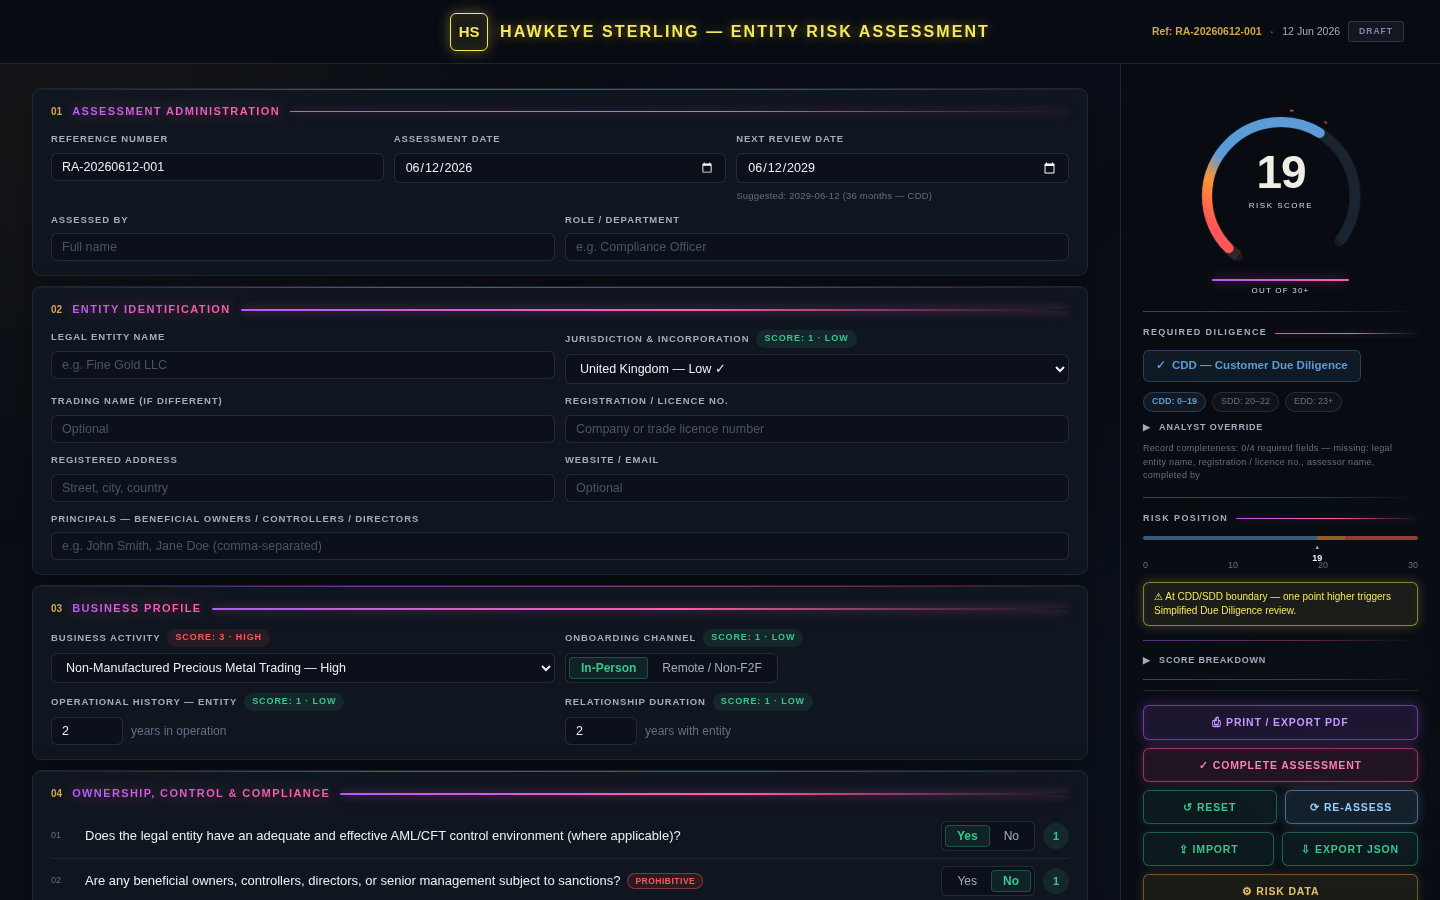
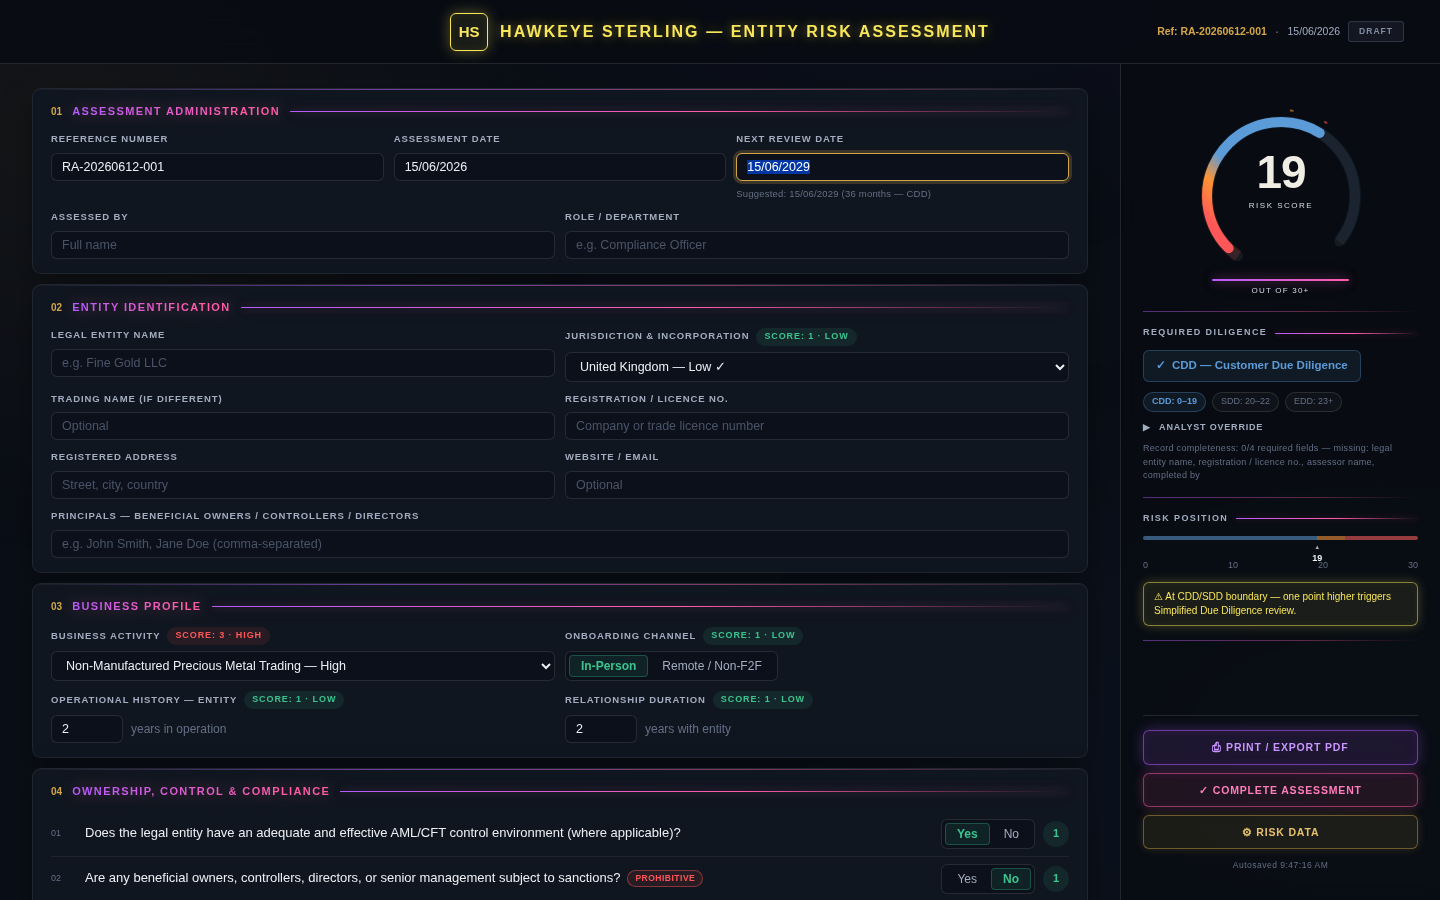
DD/MM/YYYY dates, slimmer sidebar, Risk Data panel counts
Client-requested UI revisions:

- All dates are entered and shown as DD/MM/YYYY: the seven date fields
  are now masked text inputs (dmyToISO/fmtDate convert at the UI
  boundary; state, storage, and exports stay ISO). The native calendar
  picker icons disappear with the switch. Review suggestions, banners,
  panel timestamps, header, and the printed report all display
  DD/MM/YYYY.
- Sidebar: the Score Breakdown block is removed (each factor already
  shows its score inline) along with the Reset, Re-assess, Import, and
  Export JSON buttons; the actions are now Print/Export PDF, Complete
  Assessment, and Risk Data. The underlying functions remain in code and
  under test so any button can be restored on request.
- Risk Data panel: tabs show item counts (Countries · 245, Activities ·
  7, Recycled · 10, Mined · 3) confirming full coverage of the firm's
  data sheet — verified against Risk_Assessment_Templet.xlsx: all 245
  countries present with identical scores. The header baseline label is
  removed per client annotation.
- README updated to match (date format note; removed buttons no longer
  advertised). Tests: 126 checks.

https://claude.ai/code/session_01VefLokpWQfy2h7uwWEejER

diff --git a/index.html b/index.html
@@ -101,7 +101,6 @@ body::before{content:'';position:fixed;inset:-20%;pointer-events:none;z-index:0;
 .fg textarea{resize:vertical;min-height:64px;line-height:1.55}
 input[type="number"]::-webkit-inner-spin-button,input[type="number"]::-webkit-outer-spin-button{-webkit-appearance:none;margin:0}
 input[type="number"]{-moz-appearance:textfield}
-input[type="date"]{color-scheme:dark}
 .score-tag{display:inline-flex;align-items:center;font-size:9px;font-weight:600;padding:2px 8px;border-radius:99px;white-space:nowrap;font-family:var(--mono);transition:background .3s,color .3s}
 .st-0{background:var(--none-bg);color:var(--none-text)}
 .st-1{background:var(--low-bg);color:var(--low-text)}
@@ -153,8 +152,6 @@ input[type="date"]{color-scheme:dark}
 .btn-ghost{background:rgba(59,196,143,0.08);color:#3BC48F;border-color:rgba(59,196,143,0.40);box-shadow:0 0 10px rgba(59,196,143,0.18)}
 .btn-ghost:hover{background:rgba(59,196,143,0.16);color:#5FDCAB;box-shadow:0 0 18px rgba(59,196,143,0.38)}
 .btn-full{width:100%;justify-content:center}
-.action-row{display:flex;gap:8px}
-.btn-half{flex:1;justify-content:center}
 .btn-gold{background:rgba(210,166,72,0.10);color:#E5C16C;border-color:rgba(210,166,72,0.45);box-shadow:0 0 10px rgba(210,166,72,0.20)}
 .btn-gold:hover{background:rgba(210,166,72,0.18);color:#F0D08A;box-shadow:0 0 18px rgba(210,166,72,0.38)}
 .btn-blue{background:rgba(126,200,255,0.10);color:#8FD0FF;border-color:rgba(126,200,255,0.45);box-shadow:0 0 12px rgba(126,200,255,0.22),inset 0 0 10px rgba(126,200,255,0.05)}
@@ -214,12 +211,6 @@ button:focus-visible{outline:2px solid rgba(210,166,72,0.55);outline-offset:2px}
 .breakdown-toggle:hover{color:var(--text)}
 .breakdown-panel{display:none;margin-top:10px}
 .breakdown-panel.open{display:block;animation:fgWarnIn .35s ease-out}
-.bd-table{width:100%;border-collapse:collapse;font-size:10px}
-.bd-table tr{border-bottom:1px solid var(--border)}
-.bd-table tr:last-child{border-bottom:none}
-.bd-table td{padding:4px 3px;color:var(--text);vertical-align:middle}
-.bd-table td:last-child{text-align:right}
-.badge{display:inline-block;padding:2px 7px;border-radius:99px;font-size:9px;font-weight:600;font-family:var(--mono)}
 .b0{background:var(--none-bg);color:var(--none-text)}
 .b1{background:var(--low-bg);color:var(--low-text)}
 .b2{background:var(--med-bg);color:var(--med-text)}
@@ -373,11 +364,11 @@ table.kv td.a{width:10%;font-weight:700;text-align:center}
           </div>
           <div class="fg">
             <label>Assessment Date</label>
-            <input type="date" id="assessDate" oninput="onField('meta','date',this.value)">
+            <input type="text" id="assessDate" placeholder="DD/MM/YYYY" maxlength="10" inputmode="numeric" onchange="dateFieldChanged(this, v => onField('meta','date', v))">
           </div>
           <div class="fg">
             <label>Next Review Date</label>
-            <input type="date" id="nextReview" oninput="onSign('nextReview',this.value)">
+            <input type="text" id="nextReview" placeholder="DD/MM/YYYY" maxlength="10" inputmode="numeric" onchange="dateFieldChanged(this, v => onSign('nextReview', v))">
             <span class="review-hint" id="reviewHint"></span>
           </div>
         </div>
@@ -475,17 +466,17 @@ table.kv td.a{width:10%;font-weight:700;text-align:center}
         <div class="sec-divider">Screening Evidence</div>
         <div class="field-row three">
           <div class="fg"><label>Sanctions Screening — System / Provider</label><input type="text" id="scr_sanctions_system" placeholder="e.g. OpenSanctions, Dow Jones" oninput="onScreening('sanctions','system',this.value)"></div>
-          <div class="fg"><label>Screened On</label><input type="date" id="scr_sanctions_date" oninput="onScreening('sanctions','date',this.value)"></div>
+          <div class="fg"><label>Screened On</label><input type="text" id="scr_sanctions_date" placeholder="DD/MM/YYYY" maxlength="10" inputmode="numeric" onchange="dateFieldChanged(this, v => onScreening('sanctions','date', v))"></div>
           <div class="fg"><label>Reference ID</label><input type="text" id="scr_sanctions_ref" placeholder="Search / case reference" oninput="onScreening('sanctions','ref',this.value)"></div>
         </div>
         <div class="field-row three">
           <div class="fg"><label>PEP Screening — System / Provider</label><input type="text" id="scr_pep_system" placeholder="e.g. provider or database" oninput="onScreening('pep','system',this.value)"></div>
-          <div class="fg"><label>Screened On</label><input type="date" id="scr_pep_date" oninput="onScreening('pep','date',this.value)"></div>
+          <div class="fg"><label>Screened On</label><input type="text" id="scr_pep_date" placeholder="DD/MM/YYYY" maxlength="10" inputmode="numeric" onchange="dateFieldChanged(this, v => onScreening('pep','date', v))"></div>
           <div class="fg"><label>Reference ID</label><input type="text" id="scr_pep_ref" placeholder="Search / case reference" oninput="onScreening('pep','ref',this.value)"></div>
         </div>
         <div class="field-row three">
           <div class="fg"><label>Adverse Media — System / Provider</label><input type="text" id="scr_adverse_system" placeholder="e.g. provider or search engine" oninput="onScreening('adverse','system',this.value)"></div>
-          <div class="fg"><label>Screened On</label><input type="date" id="scr_adverse_date" oninput="onScreening('adverse','date',this.value)"></div>
+          <div class="fg"><label>Screened On</label><input type="text" id="scr_adverse_date" placeholder="DD/MM/YYYY" maxlength="10" inputmode="numeric" onchange="dateFieldChanged(this, v => onScreening('adverse','date', v))"></div>
           <div class="fg"><label>Reference ID</label><input type="text" id="scr_adverse_ref" placeholder="Search / case reference" oninput="onScreening('adverse','ref',this.value)"></div>
         </div>
       </div>
@@ -508,14 +499,14 @@ table.kv td.a{width:10%;font-weight:700;text-align:center}
             <div class="attest-role">First-Line — Assessed By</div>
             <div class="fg"><label>Full Name</label><input type="text" id="completedBy" placeholder="Full name" oninput="onSign('completedBy',this.value)"></div>
             <div class="fg" style="margin-top:10px"><label>Title / Role</label><input type="text" id="completedTitle" placeholder="e.g. Compliance Analyst" oninput="onSign('completedTitle',this.value)"></div>
-            <div class="fg" style="margin-top:10px"><label>Date</label><input type="date" id="completedDate" oninput="onSign('completedDate',this.value)"></div>
+            <div class="fg" style="margin-top:10px"><label>Date</label><input type="text" id="completedDate" placeholder="DD/MM/YYYY" maxlength="10" inputmode="numeric" onchange="dateFieldChanged(this, v => onSign('completedDate', v))"></div>
             <div class="sig-line"></div><div class="sig-caption">Signature</div>
           </div>
           <div class="attest-block">
             <div class="attest-role">Second-Line — Reviewed &amp; Approved By</div>
             <div class="fg"><label>Full Name</label><input type="text" id="approvedBy" placeholder="Full name" oninput="onSign('approvedBy',this.value)"></div>
             <div class="fg" style="margin-top:10px"><label>Title / Role</label><input type="text" id="approvedTitle" placeholder="e.g. MLRO / Head of Compliance" oninput="onSign('approvedTitle',this.value)"></div>
-            <div class="fg" style="margin-top:10px"><label>Date</label><input type="date" id="approvedDate" oninput="onSign('approvedDate',this.value)"></div>
+            <div class="fg" style="margin-top:10px"><label>Date</label><input type="text" id="approvedDate" placeholder="DD/MM/YYYY" maxlength="10" inputmode="numeric" onchange="dateFieldChanged(this, v => onSign('approvedDate', v))"></div>
             <div class="sig-line"></div><div class="sig-caption">Signature</div>
           </div>
         </div>
@@ -605,24 +596,11 @@ table.kv td.a{width:10%;font-weight:700;text-align:center}
         <div class="breakdown-panel" id="priorPanel"><div class="prior-list" id="priorList"></div></div>
       </div>
 
-      <div class="sp-block">
-        <button class="breakdown-toggle" onclick="toggleBreakdown()"><span id="bdArrow">▶</span>&nbsp;Score Breakdown</button>
-        <div class="breakdown-panel" id="breakdownPanel"><table class="bd-table" id="bdTable"></table></div>
-      </div>
-
       <div class="sp-spacer"></div>
 
       <div class="sp-actions no-print">
         <button class="btn btn-primary btn-full" onclick="printReport()" title="Safari: choose A4 paper size and enable “Print backgrounds” in the print dialog">⎙ Print / Export PDF</button>
         <button class="btn btn-secondary btn-full" id="btnComplete" onclick="toggleComplete()">✓ Complete Assessment</button>
-        <div class="action-row">
-          <button class="btn btn-ghost btn-half" onclick="newAssessment()">↺ Reset</button>
-          <button class="btn btn-blue btn-half" onclick="reassess()">⟳ Re-assess</button>
-        </div>
-        <div class="action-row">
-          <button class="btn btn-ghost btn-half" onclick="importJSON()">⇪ Import</button>
-          <button class="btn btn-ghost btn-half" onclick="exportJSON()">⇩ Export JSON</button>
-        </div>
         <button class="btn btn-gold btn-full" onclick="openRiskData()">⚙ Risk Data</button>
         <div class="save-stamp" id="saveStamp"></div>
       </div>
@@ -723,11 +701,22 @@ function scoreTagClass(s){ return ['st-0','st-1','st-2','st-3'][s] || 'st-0'; }
 function yearsToScore(y){ return y<=0 ? 3 : y===1 ? 2 : 1; }
 function toISO(d){ return d.getFullYear()+'-'+String(d.getMonth()+1).padStart(2,'0')+'-'+String(d.getDate()).padStart(2,'0'); }
 function todayISO(){ return toISO(new Date()); }
+/* All dates display as DD/MM/YYYY; state and storage stay ISO (yyyy-mm-dd). */
 function fmtDate(iso){
   const m = /^(\d{4})-(\d{2})-(\d{2})$/.exec(String(iso||''));
+  return m ? m[3]+'/'+m[2]+'/'+m[1] : '';
+}
+function dmyToISO(s){
+  const m = /^\s*(\d{1,2})\/(\d{1,2})\/(\d{4})\s*$/.exec(String(s||''));
   if(!m) return '';
-  const MON = ['Jan','Feb','Mar','Apr','May','Jun','Jul','Aug','Sep','Oct','Nov','Dec'];
-  return m[3]+' '+(MON[parseInt(m[2],10)-1]||'')+' '+m[1];
+  const d = parseInt(m[1],10), mo = parseInt(m[2],10), y = parseInt(m[3],10);
+  if(mo<1 || mo>12 || d<1 || d>new Date(y, mo, 0).getDate()) return '';
+  return y+'-'+String(mo).padStart(2,'0')+'-'+String(d).padStart(2,'0');
+}
+function dateFieldChanged(el, apply){
+  const iso = dmyToISO(el.value);
+  if(iso) el.value = fmtDate(iso); /* normalise e.g. 1/6/2026 → 01/06/2026 */
+  apply(iso);
 }
 function addMonths(iso, m){
   const p = (iso || todayISO()).split('-').map(Number);
@@ -1017,7 +1006,10 @@ function rdRender(){
   if(!rows) return;
   Object.keys(RD_KINDS).forEach(k => {
     const t = $('rdTab_'+k);
-    if(t) t.className = 'rd-tab' + (k===rdTab ? ' active' : '');
+    if(t){
+      t.className = 'rd-tab' + (k===rdTab ? ' active' : '');
+      t.textContent = RD_KINDS[k].label + ' · ' + RD_KINDS[k].list.filter(o => o.name!=='N/A').length;
+    }
   });
   const oo = $('rdOvOnly');
   if(oo) oo.className = 'rd-tab' + (rdShowOvOnly ? ' active' : '');
@@ -1039,7 +1031,7 @@ function rdRender(){
       + '<select class="rd-score">'+opts.join('')+'</select>'
       + (rdTab==='countries' ? '<label class="rd-cfa"><input type="checkbox" class="rd-cfa-box"'+(effCfa?' checked':'')+'>CFA</label>' : '')
       + '<input class="rd-reason" placeholder="Reason (required)" value="'+esc(o?o.reason:'')+'">'
-      + '<span class="rd-at">'+(o?esc(o.at):'')+'</span>'
+      + '<span class="rd-at">'+(o?esc(fmtDate(o.at)||o.at):'')+'</span>'
       + '<button class="rd-clear" title="Clear override — restore baseline" aria-label="Clear override for '+esc(b.name)+'"'+(o?'':' style="visibility:hidden"')+'>✕</button>'
       + '</div>';
   }).join('');
@@ -1047,7 +1039,7 @@ function rdRender(){
   const c = $('rdCountLbl');
   if(c) c.textContent = rdCount() + ' override' + (rdCount()===1?'':'s');
   const m = $('rdMeta');
-  if(m) m.textContent = 'Baseline ' + RISK_DATA_VERSION + (riskData.updatedAt ? ' · sheet updated ' + riskData.updatedAt : '');
+  if(m) m.textContent = riskData.updatedAt ? 'Sheet updated ' + (fmtDate(riskData.updatedAt) || riskData.updatedAt) : '';
 }
 function refreshSelectLabels(){
   const jSel = $('jurisdictionSelect');
@@ -1187,7 +1179,7 @@ function paintToggle(id, val, type) {
   const tag = $(id+'_score_tag');
   if(tag){ tag.className = 'score-tag '+scoreTagClass(score); tag.textContent = 'Score: '+score+' · '+ratingLabel(score); }
 }
-function ovTitle(e){ return e && e.overridden ? 'Overridden from '+e.baseScore+' on '+e.at+' — '+e.reason : ''; }
+function ovTitle(e){ return e && e.overridden ? 'Overridden from '+e.baseScore+' on '+(fmtDate(e.at)||e.at)+' — '+e.reason : ''; }
 function paintJurisdiction() {
   const c = effCountry(state.entity.jurisdiction);
   const score = c ? c.score : 1;
@@ -1238,7 +1230,7 @@ function paintHeaderMeta() {
 function syncUI() {
   const s = state;
   $('refInput').value = s.meta.ref;
-  $('assessDate').value = s.meta.date;
+  $('assessDate').value = fmtDate(s.meta.date);
   $('assessorName').value = s.meta.assessor;
   $('assessorRole').value = s.meta.role;
   $('entityName').value = s.entity.name;
@@ -1258,15 +1250,15 @@ function syncUI() {
   }));
   $('notesInput').value = s.notes;
   SCREENING_GROUPS.forEach(([g]) => ['system','date','ref'].forEach(f => {
-    $('scr_'+g+'_'+f).value = s.screening[g][f];
+    $('scr_'+g+'_'+f).value = f==='date' ? fmtDate(s.screening[g][f]) : s.screening[g][f];
   }));
   $('completedBy').value = s.signoff.completedBy;
   $('completedTitle').value = s.signoff.completedTitle;
-  $('completedDate').value = s.signoff.completedDate;
+  $('completedDate').value = fmtDate(s.signoff.completedDate);
   $('approvedBy').value = s.signoff.approvedBy;
   $('approvedTitle').value = s.signoff.approvedTitle;
-  $('approvedDate').value = s.signoff.approvedDate;
-  $('nextReview').value = s.signoff.nextReview;
+  $('approvedDate').value = fmtDate(s.signoff.approvedDate);
+  $('nextReview').value = fmtDate(s.signoff.nextReview);
   $('ovBand').value = s.override.band;
   $('ovReason').value = s.override.reason;
   paintStatus();
@@ -1432,7 +1424,7 @@ function recalc() {
   if(a.analystOv){
     ovB.style.display = 'block';
     ovB.textContent = '⚑ Analyst override: ' + a.analystOv.from + ' → ' + a.analystOv.band + ' — ' + a.analystOv.reason
-      + (a.analystOv.at ? ' (' + a.analystOv.at + ')' : '');
+      + (a.analystOv.at ? ' (' + (fmtDate(a.analystOv.at) || a.analystOv.at) + ')' : '');
   } else {
     ovB.style.display = 'none';
   }
@@ -1498,24 +1490,12 @@ function recalc() {
   const suggested = a.prohibited ? '' : addMonths(s.meta.date, REVIEW_MONTHS[a.outcome]);
   if(!s.signoff.reviewManual){
     s.signoff.nextReview = suggested;
-    $('nextReview').value = suggested;
+    $('nextReview').value = fmtDate(suggested);
   }
   $('reviewHint').innerHTML = (a.prohibited
       ? 'No review — relationship prohibited'
-      : 'Suggested: ' + suggested + ' (' + REVIEW_MONTHS[a.outcome] + ' months — ' + a.outcome + ')')
+      : 'Suggested: ' + fmtDate(suggested) + ' (' + REVIEW_MONTHS[a.outcome] + ' months — ' + a.outcome + ')')
     + (s.signoff.reviewManual ? ' · <a onclick="useSuggestedReview()">use suggested</a>' : '');
-
-  /* Breakdown table */
-  $('bdTable').innerHTML = a.parts.map(p=>`
-    <tr>
-      <td style="color:var(--text2);font-size:10px;max-width:160px;word-wrap:break-word">${esc(p.label)}${p.ov ? ' <span class="ov-mark" title="Overridden from '+p.ov.baseScore+' on '+esc(p.ov.at)+' — '+esc(p.ov.reason)+'">✱</span>' : ''}</td>
-      <td style="color:var(--text3);font-size:10px;padding-left:6px">${esc(p.value)}</td>
-      <td><span class="badge ${ratingClass(p.score)}">${p.score}</span></td>
-    </tr>`).join('') +
-    `<tr style="border-top:1px solid var(--border2)">
-      <td colspan="2" style="font-weight:600;font-size:11px;padding-top:6px">TOTAL</td>
-      <td style="padding-top:6px"><span class="badge ${a.outcome==='CDD'?'b1':a.outcome==='SDD'?'b2':'b3'}" style="font-size:11px">${a.total} · ${a.outcome}</span></td>
-    </tr>`;
 
   updateCompleteness();
   scheduleSave();
@@ -1535,12 +1515,6 @@ function updateCompleteness() {
   el.textContent = missing.length
     ? 'Record completeness: '+(req.length-missing.length)+'/'+req.length+' required fields — missing: '+missing.join(', ')
     : 'Record completeness: all '+req.length+' required fields completed ✓';
-}
-
-function toggleBreakdown(){
-  const p = $('breakdownPanel');
-  p.classList.toggle('open');
-  $('bdArrow').textContent = p.classList.contains('open') ? '▼' : '▶';
 }
 
 /* ══════════════════════════════════════════

diff --git a/test/app.test.js b/test/app.test.js
@@ -56,7 +56,7 @@ const script = html.match(/<script>([\s\S]*)<\/script>/)[1];
   addMonths, exportFileName, toggleComplete,
   rdSetOverride, rdClearOverride, rdResetAll, rdCount, mergeRiskData,
   saveRiskData, loadRiskData, rdExportSheet, rdRender,
-  setAnalystOverride, reassess, priorChanges,
+  setAnalystOverride, reassess, priorChanges, fmtDate, dmyToISO, dateFieldChanged,
   get riskData(){ return riskData; }
 };`);
 const A = globalThis.__app;
@@ -335,7 +335,7 @@ A.state.screening.sanctions = {system:'OpenSanctions', date:'2026-06-12', ref:'S
 A.buildPrintReport();
 pr = els.printReport._inner;
 check('report shows screening evidence', pr.includes('Sanctions screening')
-  && pr.includes('OpenSanctions · 12 Jun 2026 · Ref SCR-001'));
+  && pr.includes('OpenSanctions · 12/06/2026 · Ref SCR-001'));
 check('report dashes unscreened checks', pr.includes('PEP screening') && pr.includes('Adverse media screening'));
 const scrMerged = A.mergeState({screening:{sanctions:{system:'DJ', date:'2026-01-01', ref:'R1', evil:'x'}, pep:'bogus'}});
 check('mergeState sanitises screening fields', scrMerged.screening.sanctions.system === 'DJ'
@@ -416,6 +416,17 @@ check('aria-pressed reflects the AML answer (Yes default)',
 A.setToggle('aml','No');
 check('aria-pressed follows toggling', els.btn_aml_yes.getAttribute('aria-pressed') === 'false'
   && els.btn_aml_no.getAttribute('aria-pressed') === 'true');
+
+/* ── 22. DD/MM/YYYY display with ISO state ── */
+check('fmtDate renders dd/mm/yyyy', A.fmtDate('2026-06-12') === '12/06/2026' && A.fmtDate('') === '' && A.fmtDate('junk') === '');
+check('dmyToISO parses and pads', A.dmyToISO('1/6/2026') === '2026-06-01' && A.dmyToISO('31/12/2026') === '2026-12-31');
+check('dmyToISO rejects impossible dates', A.dmyToISO('31/02/2026') === '' && A.dmyToISO('12/13/2026') === ''
+  && A.dmyToISO('2026-06-12') === '');
+reset();
+const dEl = {value:'1/6/2026'};
+A.dateFieldChanged(dEl, v => A.onField('meta','date', v));
+check('date field stores ISO and normalises display', A.state.meta.date === '2026-06-01' && dEl.value === '01/06/2026');
+check('next-review input shows dd/mm/yyyy', /^\d{2}\/\d{2}\/\d{4}$/.test(els.nextReview.value));
 
 console.log('\n' + passed + ' passed, ' + failed + ' failed');
 process.exit(failed ? 1 : 0);

diff --git a/README.md b/README.md
@@ -21,13 +21,12 @@ The entire application lives in [`index.html`](index.html) — no build step, no
 - **Hard outcomes** — designated-party exposure (sanctions on the entity or its principals, terrorist financing, proliferation financing) produces a **PROHIBITED — Do Not Onboard** verdict with freeze-and-report instructions; PEP exposure, FATF call-for-action jurisdictions, and the ASM/high-risk-country red flag force **mandatory EDD** regardless of the numeric score. Every escalation is shown with its reason and carried into the export and printed report.
 - **Analyst override** — the operative outcome can be raised above the computed one (one-way ratchet: CDD → SDD/EDD, SDD → EDD) with a mandatory justification that prints on the report; it never weakens the computed outcome and never applies to prohibited relationships.
 - **Screening evidence** — record the system/provider, date, and reference ID for sanctions, PEP, and adverse-media checks; printed in the report as audit evidence.
-- **Periodic re-assessment** — clone a completed assessment under a new reference for its scheduled review; the prior result is kept and every changed factor is diffed live and on the report.
 - **Assessment metadata** — auto-generated reference (`RA-YYYYMMDD-NNN`), assessment date, assessor name and role.
 - **Expanded entity identification** — legal and trading names, registration/licence number, jurisdiction, registered address, website/email, principals (beneficial owners / controllers / directors).
 - **Analyst notes & rationale** — free-text section included in the printed report.
 - **Sign-off & attestation** — first-line (assessed by) and second-line (reviewed & approved, MLRO) blocks with name, title, date, and signature lines under a formal attestation statement, plus an auto-suggested next review date based on the risk band (editable). A *Complete Assessment* toggle tracks draft/complete status.
 - **Print-ready report** — a formal black/pink A4 letterhead report (exact-color printing) with the result box, hard-outcome notices, per-factor score chips across every section, notes, attestation, and signature blocks. Use *Print / Export PDF* → save as PDF.
-- **Persistence** — drafts autosave to the browser (`localStorage`) and are restored on reload; assessments can be exported/imported as JSON for record-keeping.
+- **Persistence** — drafts autosave to the browser (`localStorage`) and are restored on reload. All dates are entered and displayed as DD/MM/YYYY.
 - **Record completeness indicator** in the risk-summary sidebar.
 
 ## Risk methodology
@@ -91,7 +90,6 @@ Separately from the risk data (which is firm-wide), the analyst may raise the op
 ## Data management & privacy
 
 - **Autosave** — the working draft is saved to `localStorage` in the user's browser only; nothing is transmitted anywhere.
-- **Export / Import** — the full assessment (inputs + computed result) round-trips as a JSON file named after the reference (e.g. `RA-20260611-001.json`).
 - **Print report** — produces an audit-ready PDF via the browser's print dialog. Chrome/Edge/Firefox apply A4 and exact colours automatically; in **Safari**, choose A4 paper size and enable *Print backgrounds* in the print dialog.
 
 ## Getting started
